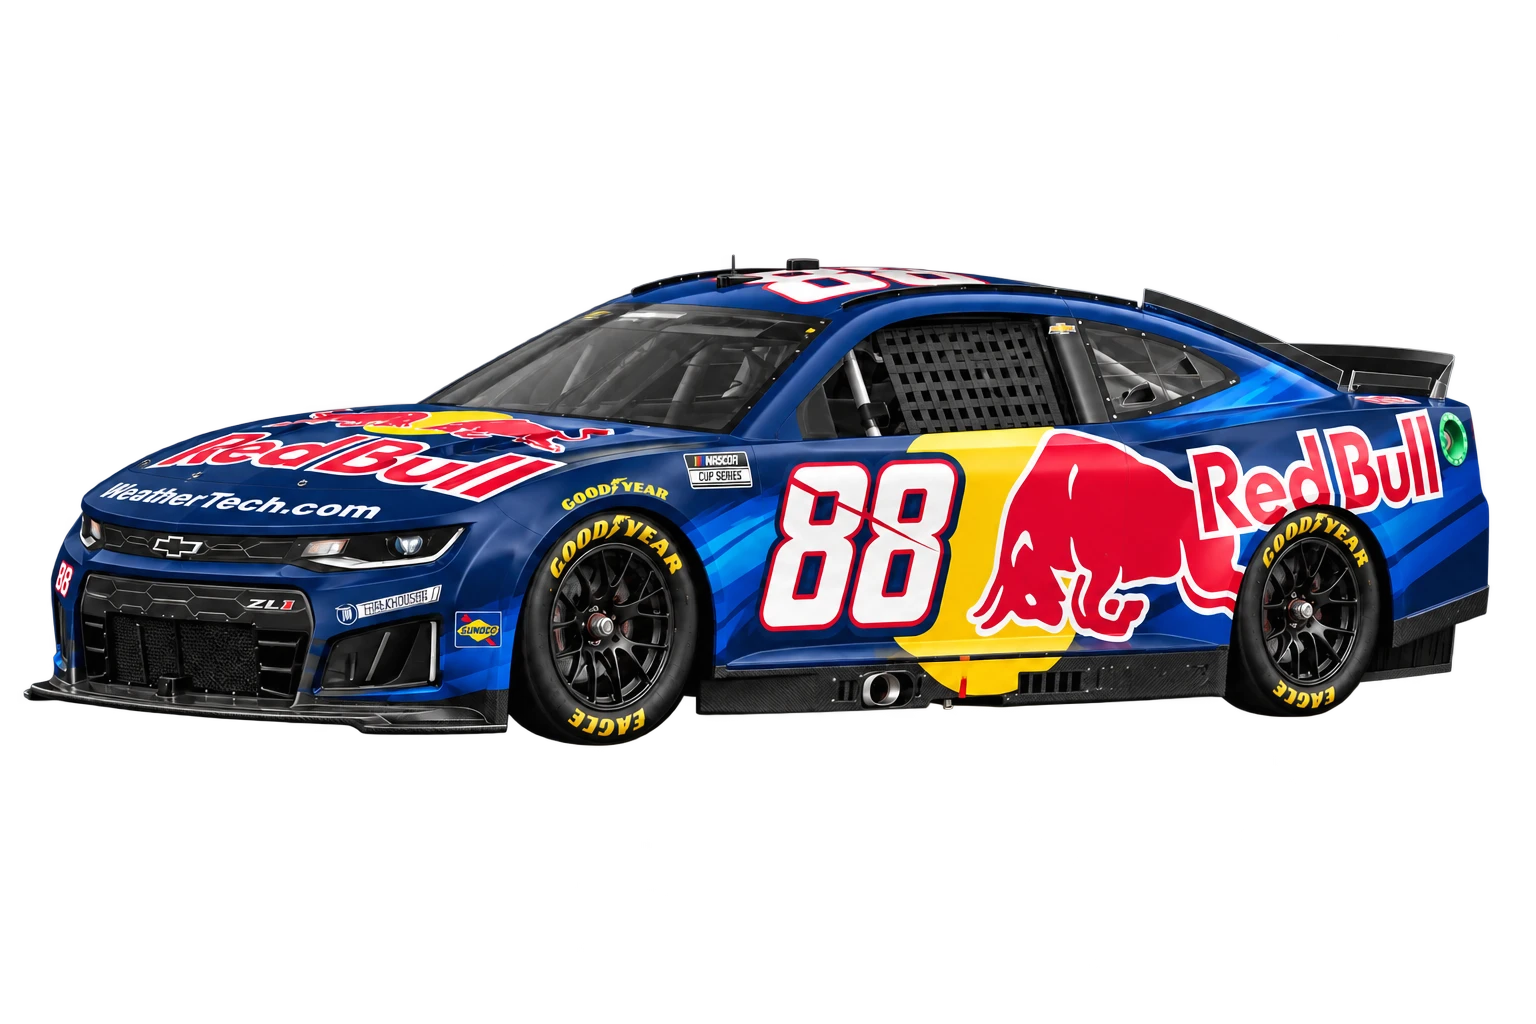
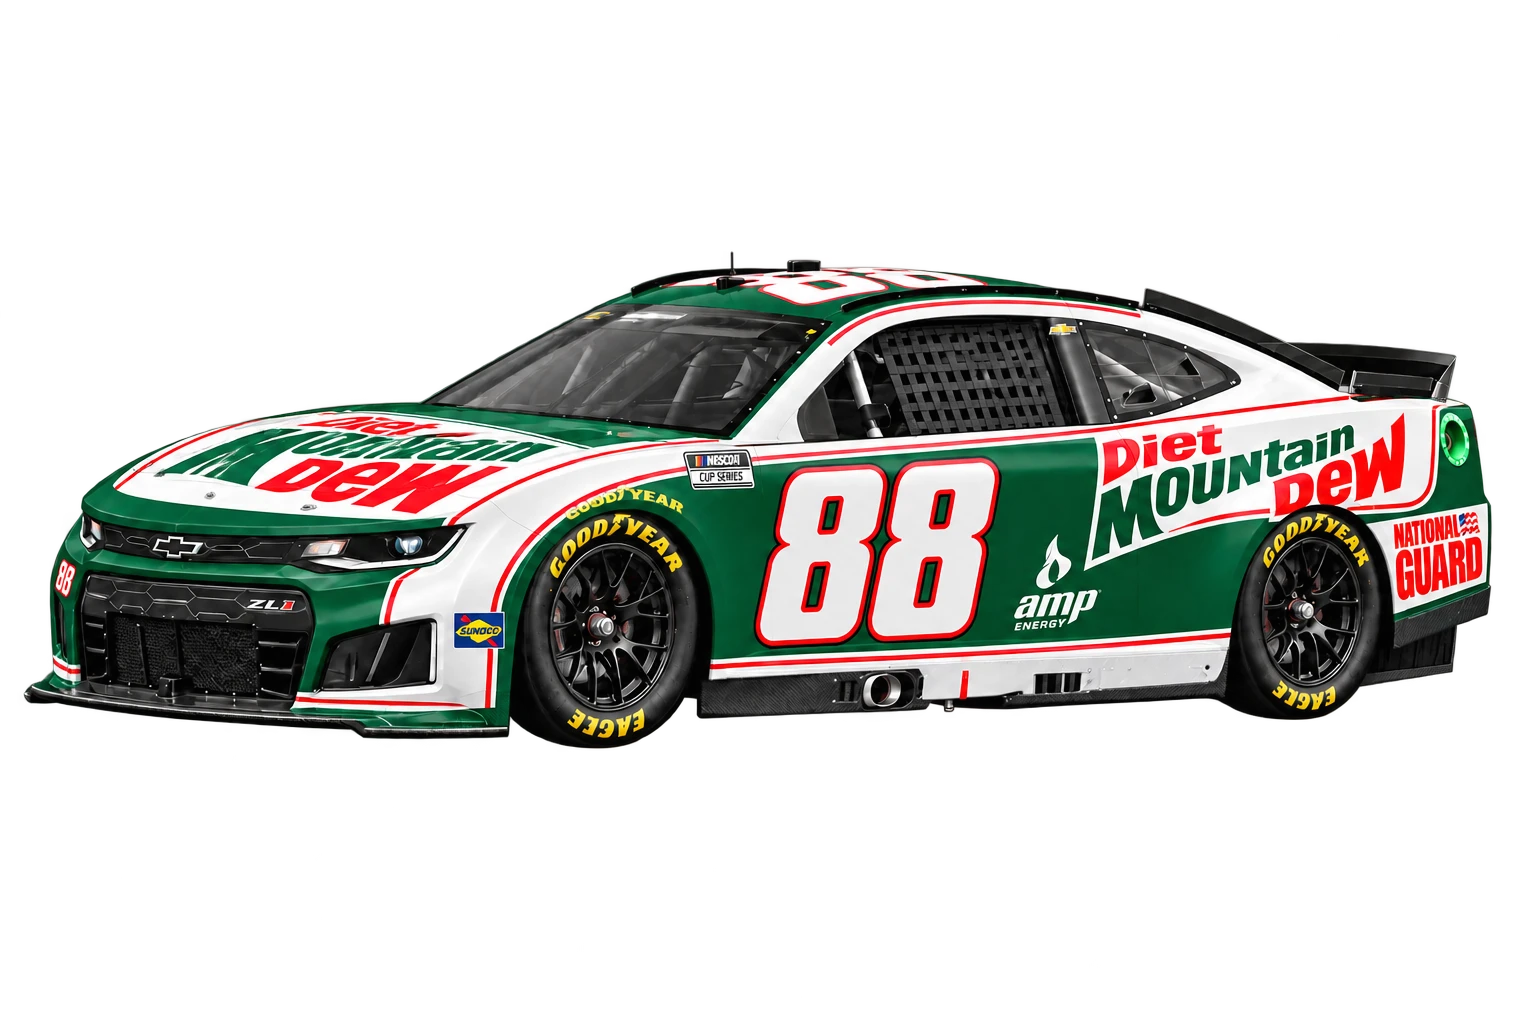
Update Nolan's car to Diet Mountain Dew throwback livery

Changed region(s): [[0.0, 0.25, 0.9688, 0.75], [0.3438, 0.3125, 0.375, 0.3438]]

diff --git a/data/car-art.js b/data/car-art.js
@@ -10,6 +10,6 @@ window.BARLCarArt = Object.freeze({
   '24': { numberImage: 'assets/cars/numbers/24.webp', sponsor: 'RAPTOR', make: 'Chevrolet', color: '#daef26' },
   '54': { numberImage: 'assets/cars/numbers/54.webp', sponsor: 'SAIA', make: 'Toyota', color: '#f24045' },
   '60': { numberImage: 'assets/cars/numbers/60.webp', sponsor: 'Kroger', make: 'Ford', color: '#3d8dff' },
-  '88': { numberImage: 'assets/driver-numbers/88/red-bull.png', sponsor: 'Red Bull', make: 'Chevrolet', color: '#3982ec' },
+  '88': { numberImage: 'assets/cars/numbers/88.webp', sponsor: 'Diet Mountain Dew / National Guard', make: 'Chevrolet', color: '#26ba7b' },
   '97': { numberImage: 'assets/driver-numbers/97/superfile.png', sponsor: 'SuperFile', make: 'Chevrolet', color: '#c8ef38' },
 });

diff --git a/assets/cars/README.md b/assets/cars/README.md
@@ -41,4 +41,6 @@ Car images use normal compositing in an isolated stage, above the halftone backg
 
 ## Transparent car backgrounds
 
+Nolan McKim's #88 now uses the user-supplied Diet Mountain Dew / National Guard throwback paint scheme, adapted to the existing Chevrolet body and camera angle. Its matching number badge and green accents replace the Red Bull presentation. See `nolan-livery-prompts.json` for the edit prompts. The #88 source entry above records the original artwork, superseded by this user reference.
+
 The eleven original studio-background renders were edited into transparent cutouts, matching the existing #7 asset. This exposes the card's color and halftone pattern around the car while preserving the bodywork and tires. The extraction prompt and source outputs are recorded in `cutout-prompts.json`. Website images retain their alpha channel when converted to WebP.
